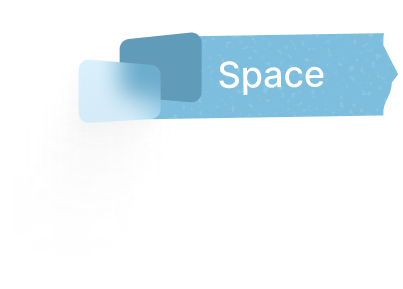
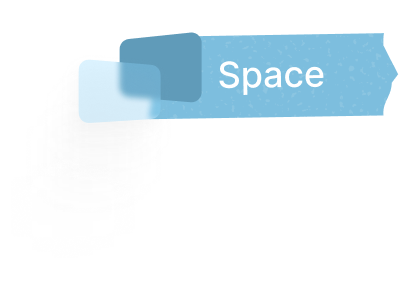
Refresh Spaces badge from Figma 2525:10784 (upright square glass, white label).

Changed region(s): [[0.268, 0.218, 0.4169, 0.4048]]

diff --git a/index.html b/index.html
@@ -1,22 +1,22 @@
-<!DOCTYPE html>
+<!DOCTYPE html>
 <html lang="zh-CN">
 <head>
   <meta charset="UTF-8">
   <meta name="viewport" content="width=device-width, initial-scale=1">
-  <title>Symbion 中国区｜人与 AI，共生智能</title>
-  <meta name="description" content="工作里随时调用 Citta，把事情做完。">
+  <title>Symbion 涓浗鍖猴綔浜轰笌 AI锛屽叡鐢熸櫤鑳?/title>
+  <meta name="description" content="宸ヤ綔閲岄殢鏃惰皟鐢?Citta锛屾妸浜嬫儏鍋氬畬銆?>
   <link rel="canonical" href="https://www.symbionspace.com/">
   <meta property="og:type" content="website">
   <meta property="og:locale" content="zh_CN">
   <meta property="og:site_name" content="Symbion">
   <meta property="og:url" content="https://www.symbionspace.com/">
-  <meta property="og:title" content="Symbion 中国区｜人与 AI，共生智能">
-  <meta property="og:description" content="工作里随时调用 Citta，把事情做完。">
+  <meta property="og:title" content="Symbion 涓浗鍖猴綔浜轰笌 AI锛屽叡鐢熸櫤鑳?>
+  <meta property="og:description" content="宸ヤ綔閲岄殢鏃惰皟鐢?Citta锛屾妸浜嬫儏鍋氬畬銆?>
   <meta property="og:image" content="https://lulu2467.github.io/symbion-site/assets/home-welcome.png">
   <meta name="twitter:card" content="summary_large_image">
   <link rel="preconnect" href="https://fonts.googleapis.com">
   <link rel="preconnect" href="https://fonts.gstatic.com" crossorigin>
-  <link rel="stylesheet" href="css/site.css?v=home250">
+  <link rel="stylesheet" href="css/site.css?v=home251">
   <script>
   try {
     var _lang = localStorage.getItem("symbion-lang");
@@ -25,21 +25,21 @@
   if (matchMedia("(max-width: 720px)").matches) document.documentElement.classList.add("is-phone");
   </script>
   <script type="application/ld+json">
-  {"@context":"https://schema.org","@type":"Organization","name":"Symbion","url":"https://www.symbionspace.com","description":"人与 AI，共生智能。"}
+  {"@context":"https://schema.org","@type":"Organization","name":"Symbion","url":"https://www.symbionspace.com","description":"浜轰笌 AI锛屽叡鐢熸櫤鑳姐€?}
   </script>
 </head>
 <body data-root="." data-page="home" class="home-v2">
   <header class="nav" id="site-nav"></header>
 
   <main>
-    <section class="hp-hero" data-i18n-aria="hpHeroLabel" aria-label="首页">
+    <section class="hp-hero" data-i18n-aria="hpHeroLabel" aria-label="棣栭〉">
       <div class="hp-glow" aria-hidden="true"></div>
       <div class="hp-copy">
-        <h1 class="hp-title" data-i18n-html="hpTitle">让人与 AI 在这里共同<span class="hp-em">工作</span>。</h1>
-        <p class="hp-lead" data-i18n-html="hpLead">借助为你打造的 Citta，<br>获取上下文、调用工具，并真正把事情做完。</p>
+        <h1 class="hp-title" data-i18n-html="hpTitle">璁╀汉涓?AI 鍦ㄨ繖閲屽叡鍚?span class="hp-em">宸ヤ綔</span>銆?/h1>
+        <p class="hp-lead" data-i18n-html="hpLead">鍊熷姪涓轰綘鎵撻€犵殑 Citta锛?br>鑾峰彇涓婁笅鏂囥€佽皟鐢ㄥ伐鍏凤紝骞剁湡姝ｆ妸浜嬫儏鍋氬畬銆?/p>
         <p class="hp-cta">
-          <a class="btn btn-ink hp-btn" href="login.html" data-i18n="start">开始使用</a>
-          <a class="btn hp-btn hp-btn-soft" href="product/citta.html" data-i18n="hpLearnCitta">了解 Citta</a>
+          <a class="btn btn-ink hp-btn" href="login.html" data-i18n="start">寮€濮嬩娇鐢?/a>
+          <a class="btn hp-btn hp-btn-soft" href="product/citta.html" data-i18n="hpLearnCitta">浜嗚В Citta</a>
         </p>
       </div>
 
@@ -50,19 +50,19 @@
           width="1440"
           height="900"
           data-i18n-alt="hpShotAlt"
-          alt="Symbion 工作台：与 Citta 协作，继续未完成的文档、幻灯与实验"
+          alt="Symbion 宸ヤ綔鍙帮細涓?Citta 鍗忎綔锛岀户缁湭瀹屾垚鐨勬枃妗ｃ€佸够鐏笌瀹為獙"
           decoding="async"
           fetchpriority="high"
         >
       </figure>
     </section>
 
-    <section class="hp-what" data-i18n-aria="hpWhatLabel" aria-label="产品能力">
+    <section class="hp-what" data-i18n-aria="hpWhatLabel" aria-label="浜у搧鑳藉姏">
       <div class="hp-what-head">
-        <h2 class="hp-what-title" data-i18n="hpWhatTitle">三层能力，把工作真正做完。</h2>
-        <p class="hp-what-lead" data-i18n="hpWhatLead">理解上下文，承载能力，与人同场协作——把工作真正做完。</p>
+        <h2 class="hp-what-title" data-i18n="hpWhatTitle">涓夊眰鑳藉姏锛屾妸宸ヤ綔鐪熸鍋氬畬銆?/h2>
+        <p class="hp-what-lead" data-i18n="hpWhatLead">鐞嗚В涓婁笅鏂囷紝鎵胯浇鑳藉姏锛屼笌浜哄悓鍦哄崗浣溾€斺€旀妸宸ヤ綔鐪熸鍋氬畬銆?/p>
         <p class="hp-what-actions">
-          <a class="btn hp-btn-soft" href="product/citta.html" data-i18n="hpLearnProduct">了解产品</a>
+          <a class="btn hp-btn-soft" href="product/citta.html" data-i18n="hpLearnProduct">浜嗚В浜у搧</a>
         </p>
       </div>
 
@@ -70,27 +70,27 @@
         <li>
           <a class="hp-pillar hp-pillar--citta" href="product/citta.html" aria-label="Citta">
             <img class="hp-pillar-sticker" src="assets/pillars/citta-sticker.png" width="148" height="57" alt="" aria-hidden="true">
-            <span class="hp-pillar-desc" data-i18n="hpPillarCitta">理解上下文，调用工具，把事情做完。</span>
+            <span class="hp-pillar-desc" data-i18n="hpPillarCitta">鐞嗚В涓婁笅鏂囷紝璋冪敤宸ュ叿锛屾妸浜嬫儏鍋氬畬銆?/span>
           </a>
         </li>
         <li>
           <a class="hp-pillar hp-pillar--cosmo" href="product/cosmo.html" aria-label="Cosmo">
             <img class="hp-pillar-sticker" src="assets/pillars/cosmo-sticker.png?v=247" width="148" height="50" alt="" aria-hidden="true">
-            <span class="hp-pillar-desc" data-i18n="hpPillarCosmo">承载身份、知识与可复用的能力。</span>
+            <span class="hp-pillar-desc" data-i18n="hpPillarCosmo">鎵胯浇韬唤銆佺煡璇嗕笌鍙鐢ㄧ殑鑳藉姏銆?/span>
           </a>
         </li>
         <li>
           <a class="hp-pillar hp-pillar--spaces" href="product/spaces.html" aria-label="Spaces">
-            <img class="hp-pillar-sticker" src="assets/pillars/space-sticker.png?v=249" width="152" height="58" alt="" aria-hidden="true">
-            <span class="hp-pillar-desc" data-i18n="hpPillarSpaces">人与 AI 同场协作，一起推进工作。</span>
+            <img class="hp-pillar-sticker" src="assets/pillars/space-sticker.png?v=251" width="152" height="58" alt="" aria-hidden="true">
+            <span class="hp-pillar-desc" data-i18n="hpPillarSpaces">浜轰笌 AI 鍚屽満鍗忎綔锛屼竴璧锋帹杩涘伐浣溿€?/span>
           </a>
         </li>
       </ul>
 
       <div class="hp-chapter">
         <div class="hp-chapter-copy">
-          <h2 class="hp-chapter-title" data-i18n="hpChapterTitle">把工作做完。</h2>
-          <p class="hp-chapter-lead" data-i18n="hpChapterLead">文档、幻灯、表格与代码都在同一工作台。Citta 接着你离开的地方继续。</p>
+          <h2 class="hp-chapter-title" data-i18n="hpChapterTitle">鎶婂伐浣滃仛瀹屻€?/h2>
+          <p class="hp-chapter-lead" data-i18n="hpChapterLead">鏂囨。銆佸够鐏€佽〃鏍间笌浠ｇ爜閮藉湪鍚屼竴宸ヤ綔鍙般€侰itta 鎺ョ潃浣犵寮€鐨勫湴鏂圭户缁€?/p>
         </div>
       </div>
 
@@ -100,7 +100,7 @@
           width="1440"
           height="900"
           data-i18n-alt="hpPanelAlt"
-          alt="在工作台里与 Citta 协作：文档、幻灯、表格与代码同场推进"
+          alt="鍦ㄥ伐浣滃彴閲屼笌 Citta 鍗忎綔锛氭枃妗ｃ€佸够鐏€佽〃鏍间笌浠ｇ爜鍚屽満鎺ㄨ繘"
           loading="lazy"
           decoding="async"
         >
@@ -108,15 +108,15 @@
 
     </section>
 
-    <section class="hp-end" data-i18n-aria="hpEndLabel" aria-label="开始使用">
+    <section class="hp-end" data-i18n-aria="hpEndLabel" aria-label="寮€濮嬩娇鐢?>
       <div class="hp-cta-band">
         <div class="hp-cta-art" aria-hidden="true">
           <img class="hp-cta-mark" src="mark.svg" width="160" height="110" alt="">
         </div>
         <div class="hp-cta-copy">
-          <h2 class="hp-cta-title" data-i18n="hpEndTitle">开始共生</h2>
-          <p class="hp-cta-lead" data-i18n="hpEndLead">创建你的 Cosmo，随时调用 Citta。在 Spaces 里与人协作——几步就能上手。</p>
-          <a class="hp-cta-btn" href="login.html" data-i18n-html="hpEndCta">立即开始 <i>→</i></a>
+          <h2 class="hp-cta-title" data-i18n="hpEndTitle">寮€濮嬪叡鐢?/h2>
+          <p class="hp-cta-lead" data-i18n="hpEndLead">鍒涘缓浣犵殑 Cosmo锛岄殢鏃惰皟鐢?Citta銆傚湪 Spaces 閲屼笌浜哄崗浣溾€斺€斿嚑姝ュ氨鑳戒笂鎵嬨€?/p>
+          <a class="hp-cta-btn" href="login.html" data-i18n-html="hpEndCta">绔嬪嵆寮€濮?<i>鈫?/i></a>
         </div>
       </div>
     </section>
@@ -126,6 +126,6 @@
   <script src="https://cdn.jsdelivr.net/npm/gsap@3.12.7/dist/gsap.min.js"></script>
   <script src="https://cdn.jsdelivr.net/npm/gsap@3.12.7/dist/ScrollTrigger.min.js"></script>
   <script src="https://cdn.jsdelivr.net/npm/lenis@1.1.20/dist/lenis.min.js"></script>
-  <script src="js/site.js?v=home250"></script>
+  <script src="js/site.js?v=home251"></script>
 </body>
 </html>
